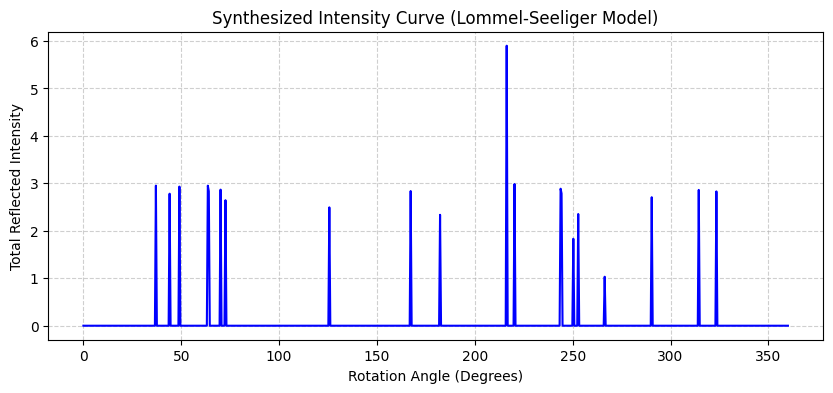
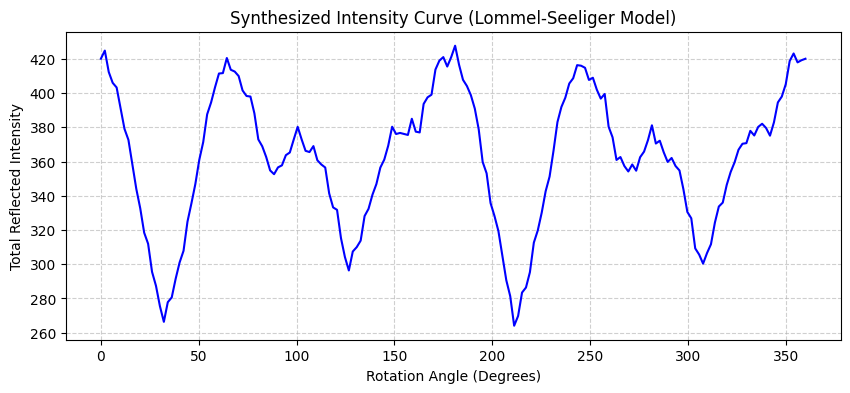
working on the forward model

diff --git a/workspaces/michael/mesh_loader.py b/workspaces/michael/mesh_loader.py
@@ -18,7 +18,7 @@ from pytorch3d.renderer import (
     TexturesVertex,
     look_at_view_transform,
 )
-from pytorch3d.renderer.blending import BlendParams, hard_rgb_blend
+from pytorch3d.renderer.blending import BlendParams, hard_rgb_blend, softmax_rgb_blend
 from pytorch3d.structures import Meshes
 from pytorch3d.transforms import Transform3d, axis_angle_to_matrix
 
@@ -57,11 +57,11 @@ class LommelSeeligerOrthographicShader(nn.Module):
         )
         normals = F.normalize(normals, p=2, dim=-1)
 
-        # 2. Compute vectors
-        view_dir = self.cameras.R[:, :, 2].view(-1, 1, 1, 1, 3)
+        # 2. Compute vectors (Reversed to point FROM object TO camera/light)
+        view_dir = -self.cameras.R[:, :, 2].view(-1, 1, 1, 1, 3)
         view_dir = F.normalize(view_dir, p=2, dim=-1)
 
-        light_dir = self.lights.direction.view(-1, 1, 1, 1, 3)
+        light_dir = -self.lights.direction.view(-1, 1, 1, 1, 3)
         light_dir = F.normalize(light_dir, p=2, dim=-1)
 
         # 3. Calculate cosines
@@ -79,8 +79,10 @@ class LommelSeeligerOrthographicShader(nn.Module):
 
         pixel_colors = torch.ones_like(normals) * intensity
 
-        # 5. Blend fragments using the defined BlendParams
-        images = hard_rgb_blend(pixel_colors, fragments, blend_params=self.blend_params)
+        # Replaced hard_rgb_blend with softmax_rgb_blend for differentiability
+        images = softmax_rgb_blend(
+            colors=pixel_colors, fragments=fragments, blend_params=self.blend_params
+        )
 
         return images
 
@@ -150,15 +152,15 @@ def render_mesh_batch(
         )
         meshes.textures = TexturesVertex(verts_features=verts_rgb)
 
+    # Adjusted for soft, differentiable rasterization
     raster_settings = RasterizationSettings(
         image_size=image_size,
-        blur_radius=0.0,
-        faces_per_pixel=1,
+        blur_radius=1e-4,  # Allows continuous gradients across edges
+        faces_per_pixel=50,  # Evaluates multiple faces for soft blending
     )
 
     lights = DirectionalLights(device=device, direction=light_direction)
 
-    # Instantiate the custom Lommel-Seeliger shader
     renderer = MeshRenderer(
         rasterizer=MeshRasterizer(cameras=camera, raster_settings=raster_settings),
         shader=LommelSeeligerOrthographicShader(
@@ -169,11 +171,28 @@ def render_mesh_batch(
     return renderer(meshes)
 
 
+def save_first_frame(
+    rendered_images: torch.Tensor, output_path: str = "first_frame.png"
+):
+    """
+    Extracts and saves the first frame from the rendered batch to verify
+    camera framing, scale, and lighting.
+    """
+    # Extract the first image and limit to the 3 RGB channels (drop alpha)
+    first_frame = rendered_images[0, ..., :3].detach().cpu().numpy()
+
+    # Clip values to [0, 1] to prevent matplotlib warnings upon saving
+    first_frame = np.clip(first_frame, 0.0, 1.0)
+
+    plt.imsave(output_path, first_frame)
+    print(f"Saved debug frame to '{output_path}'")
+
+
 if __name__ == "__main__":
     compute_device = torch.device("cuda" if torch.cuda.is_available() else "cpu")
 
     # Define batch parameters
-    N = 720  # Number of frames for one full rotation
+    N = 180  # Number of frames for one full rotation
 
     # Load base mesh
     asteroid_mesh = load_asteroid_mesh(model_num=3, device=compute_device)
@@ -228,7 +247,7 @@ if __name__ == "__main__":
 
     # 5. Render the batch configuration
     offset_light_direction = [[1.0, 1.0, 1.0]]
-    resolution = 16
+    resolution = 32
 
     rendered_images = render_mesh_batch(
         meshes=rotated_batched_meshes,
@@ -237,6 +256,8 @@ if __name__ == "__main__":
         image_size=resolution,
         light_direction=offset_light_direction,
     )
+
+    save_first_frame(rendered_images, output_path="first_frame.png")
 
     # 6. Generate Lightcurve (Summing pixel intensities across the spatial dimensions)
     # rendered_images is of shape (N, H, W, 4). Slice the RGB channels, convert to grayscale/sum
